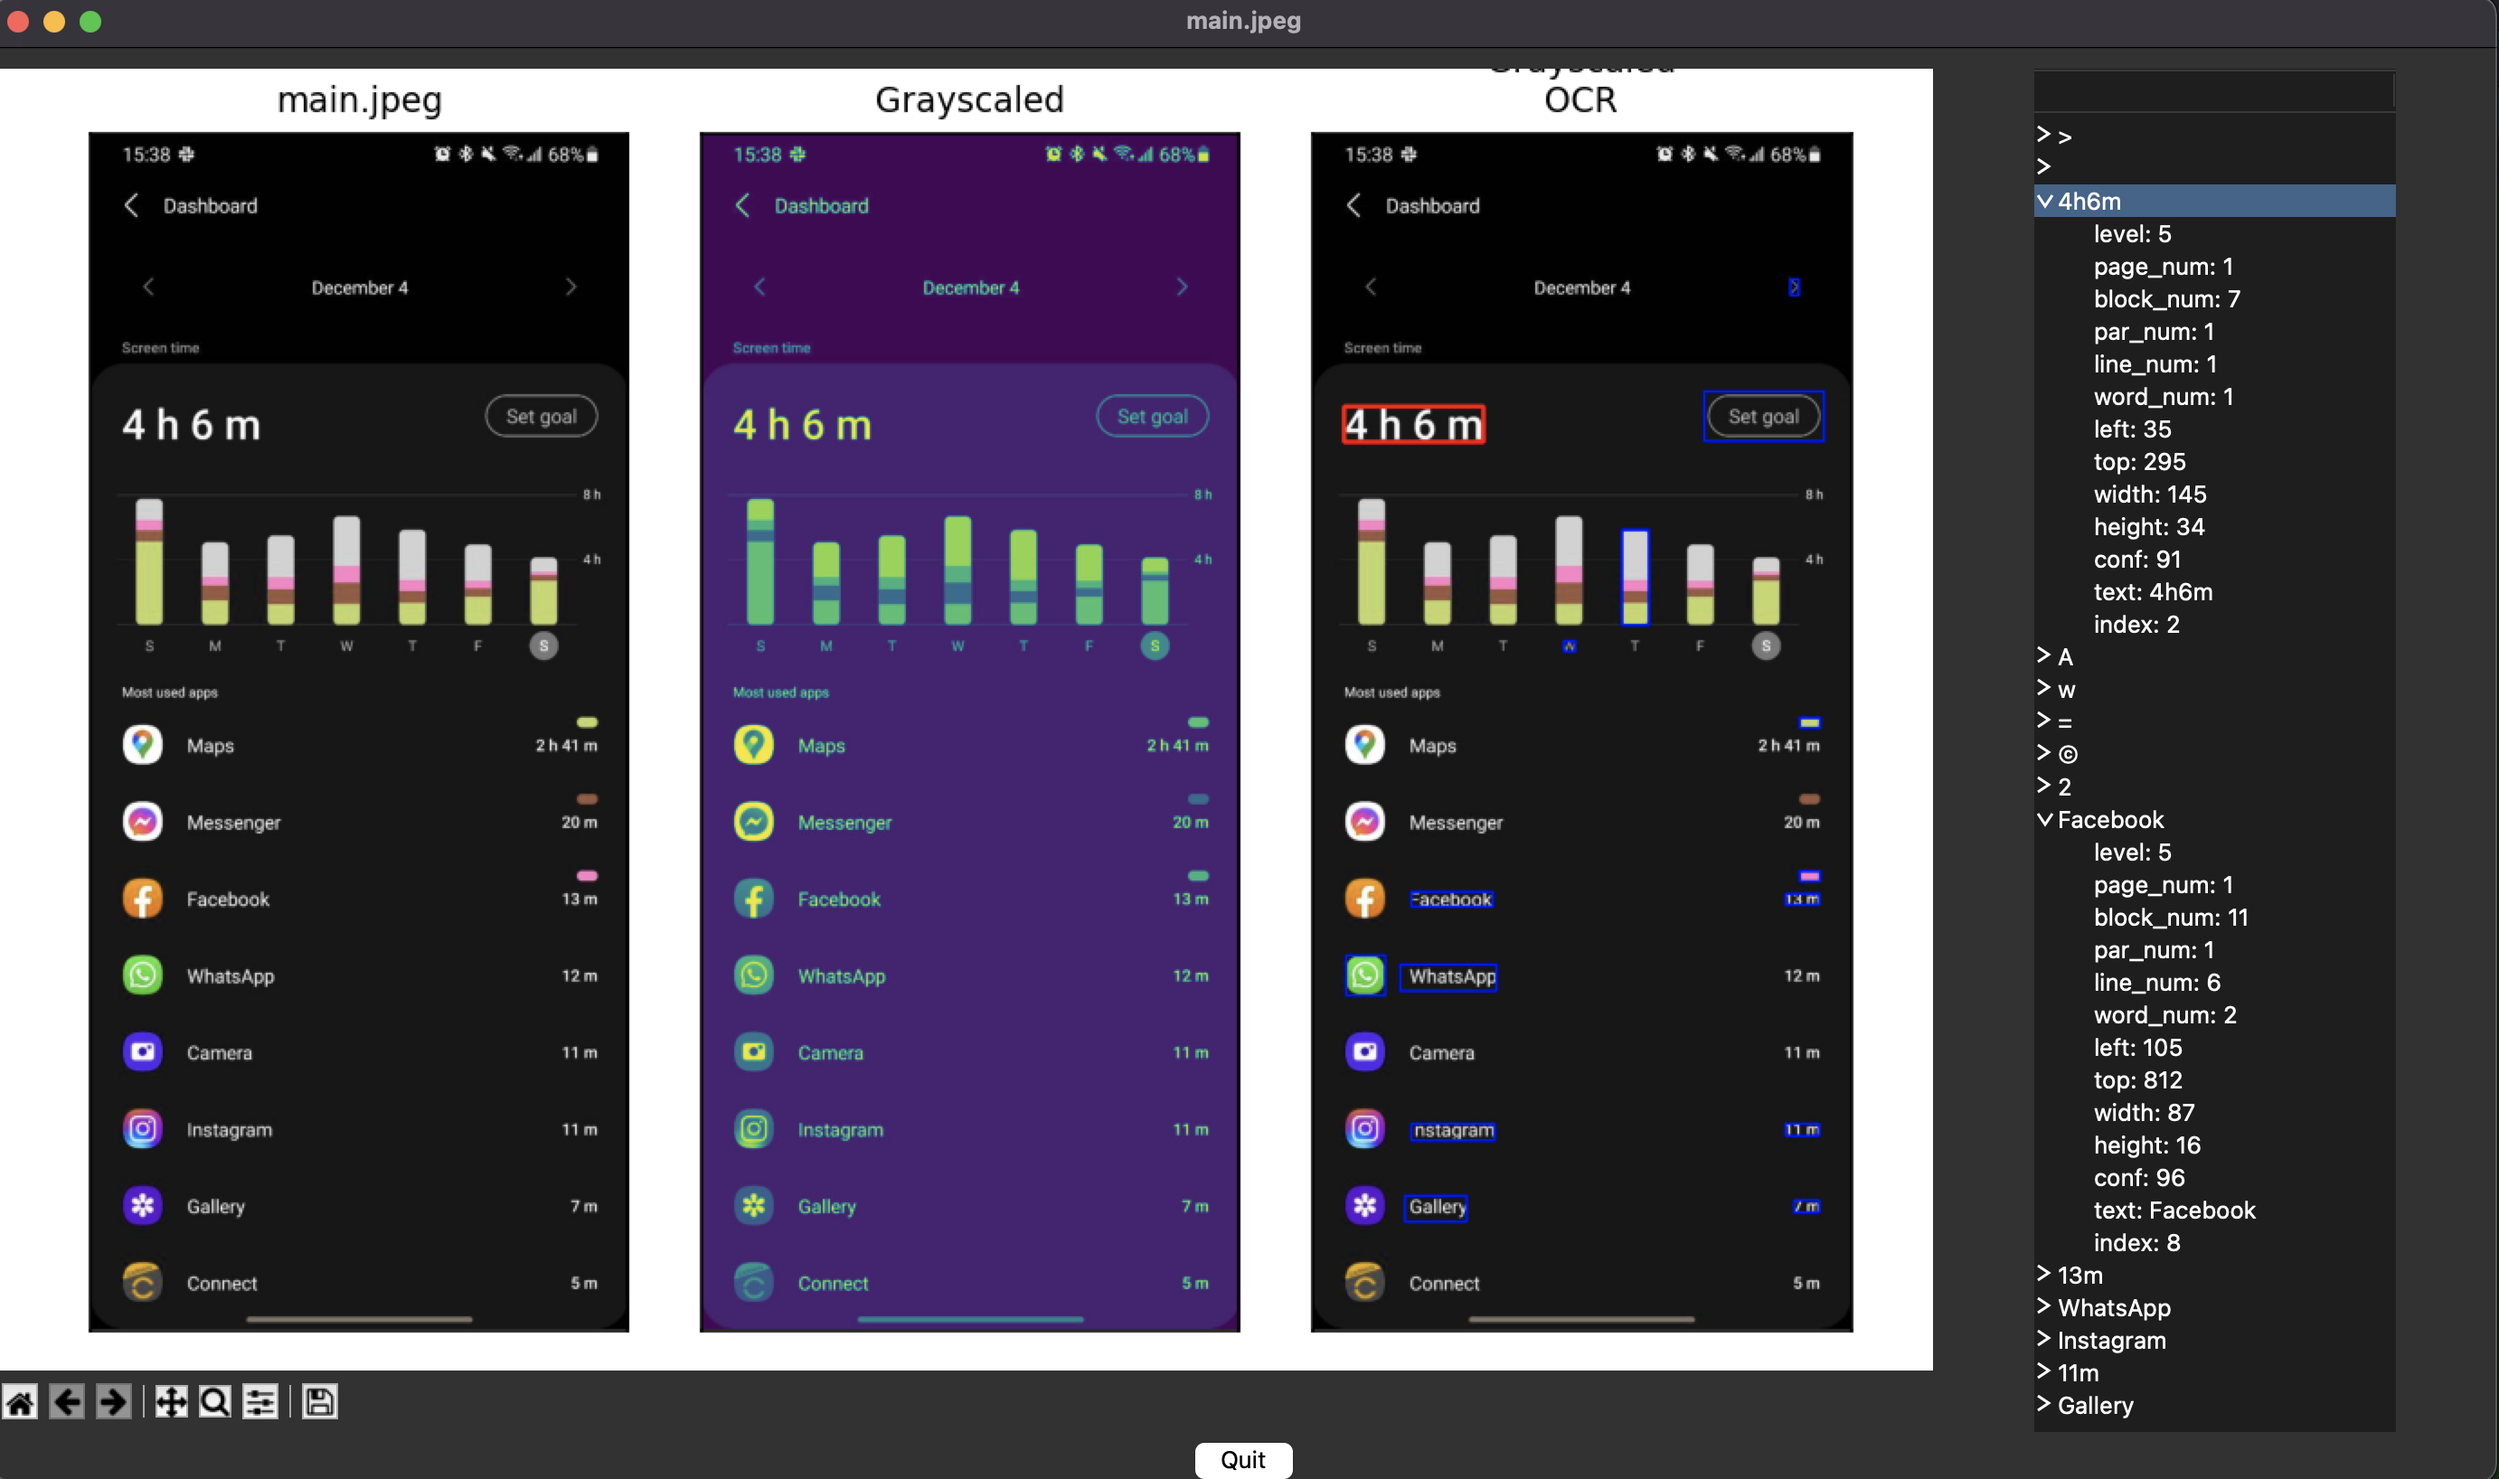
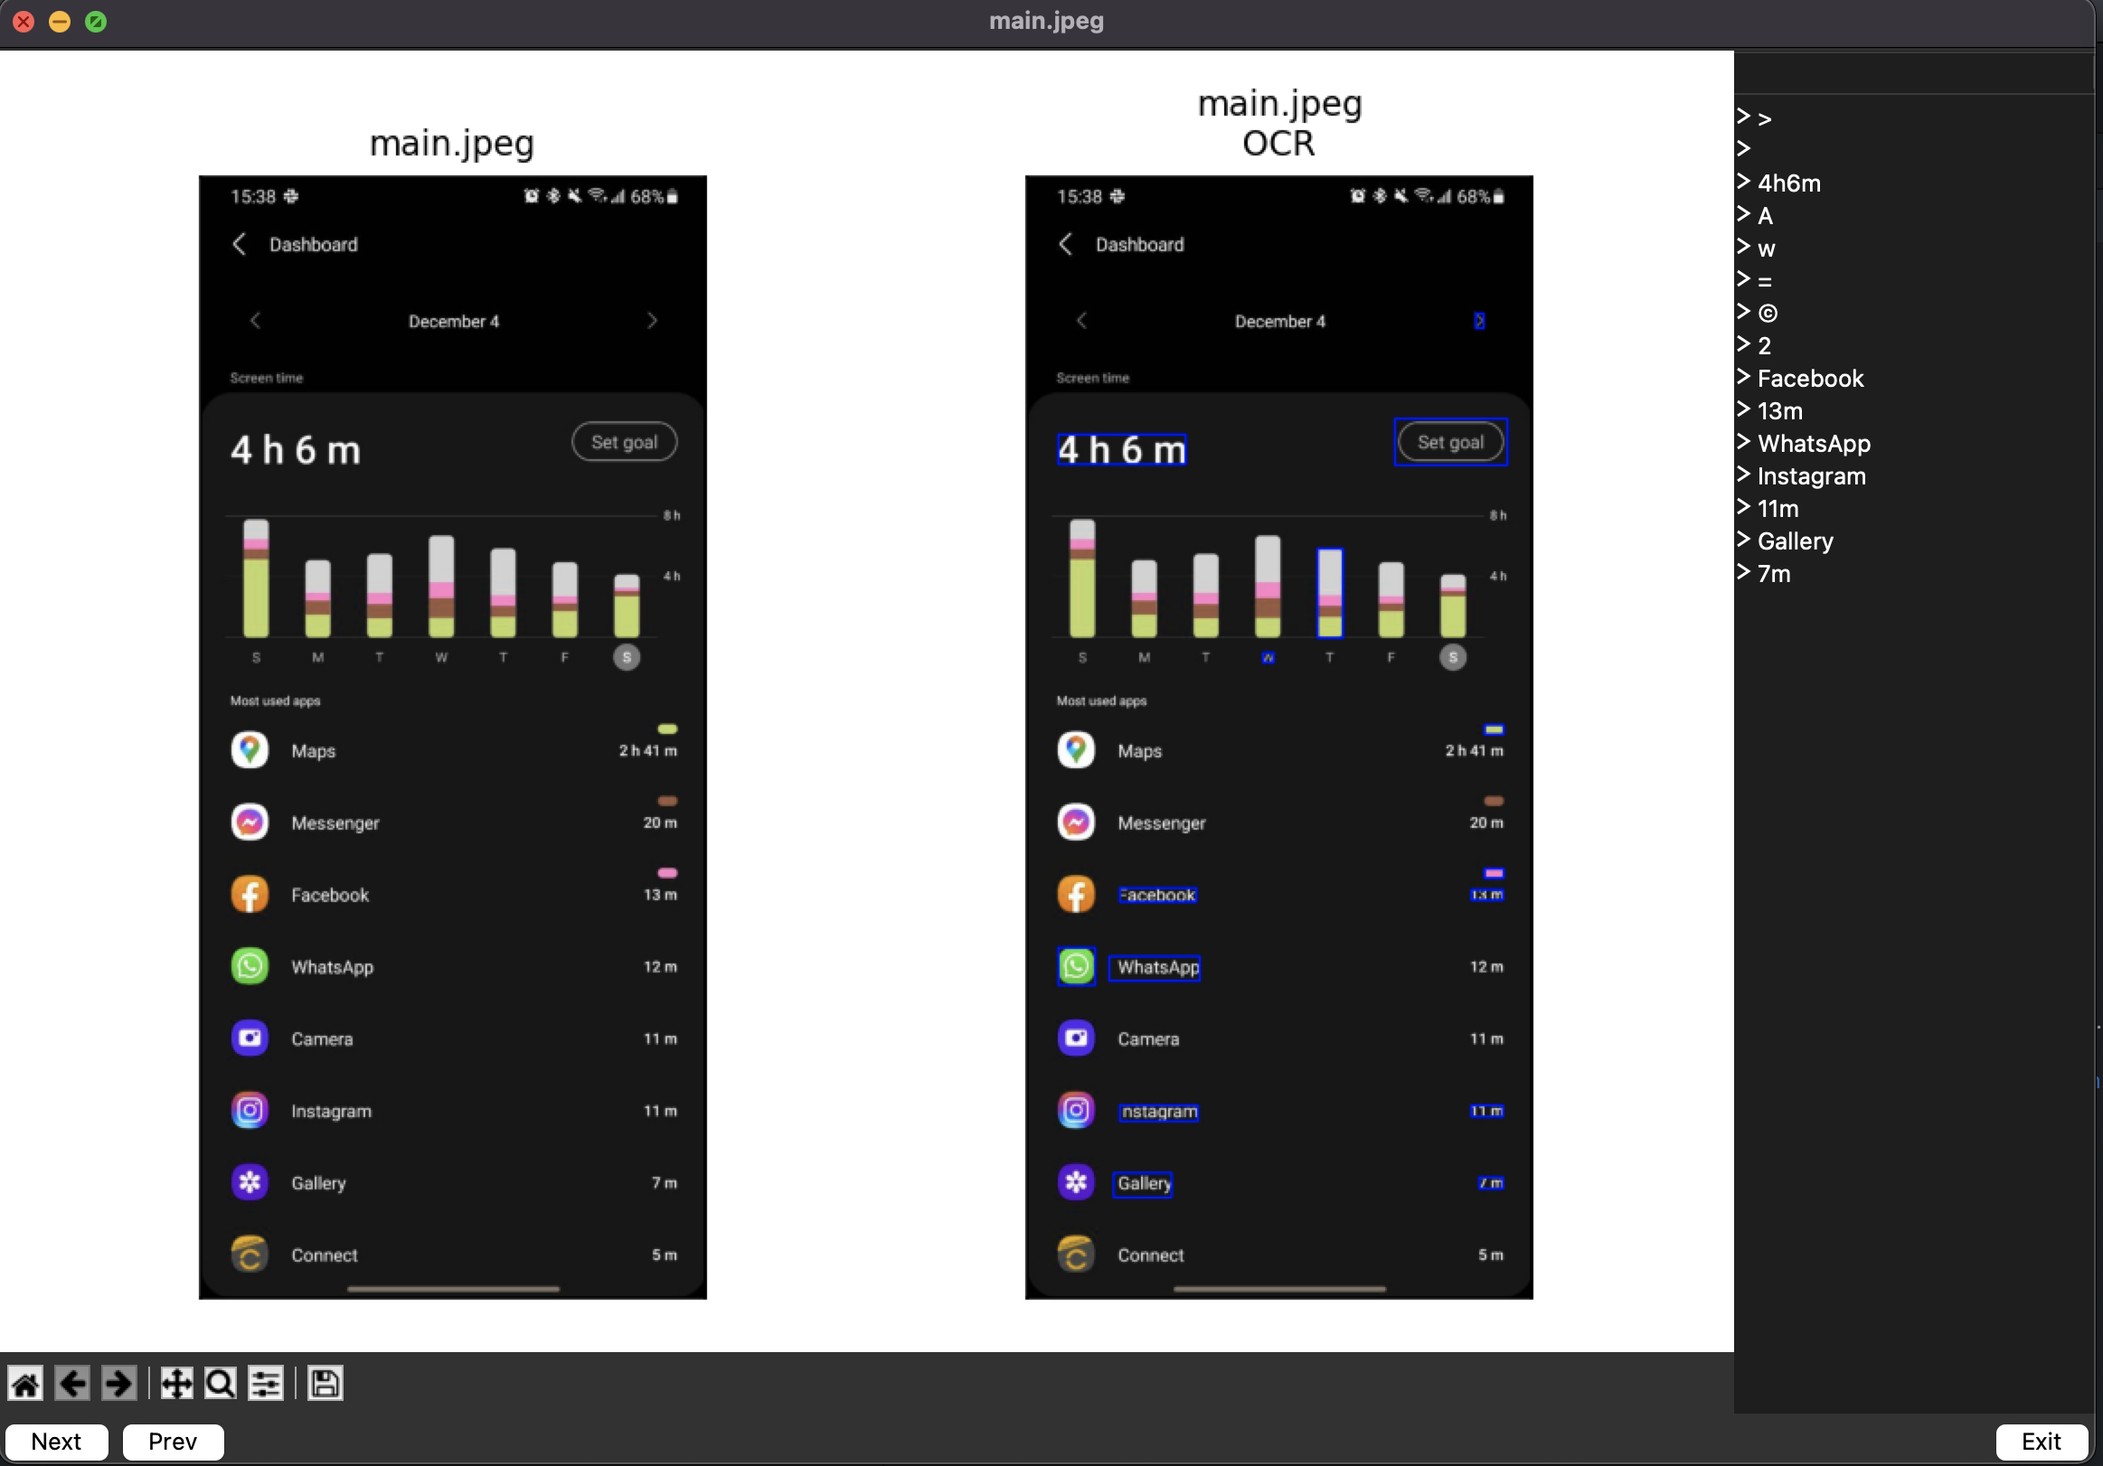
Forgot to clear the treeview before updating

diff --git a/screenshots_ocr.py b/screenshots_ocr.py
@@ -173,8 +173,10 @@ def update_preview(output_data, rows=1):
     canvas.draw()
     # plt.show()
     # plt.waitforbuttonpress()
-    d = output_data[-1]["OCR"]    
-    json_tree(tv, '', d)
+    d = output_data[-1]["OCR"]  
+    tv.delete(*tv.get_children())
+    json_tree(tv, '', d)  
+    tv.update()
     root.update()
     tkinter.mainloop()
 
